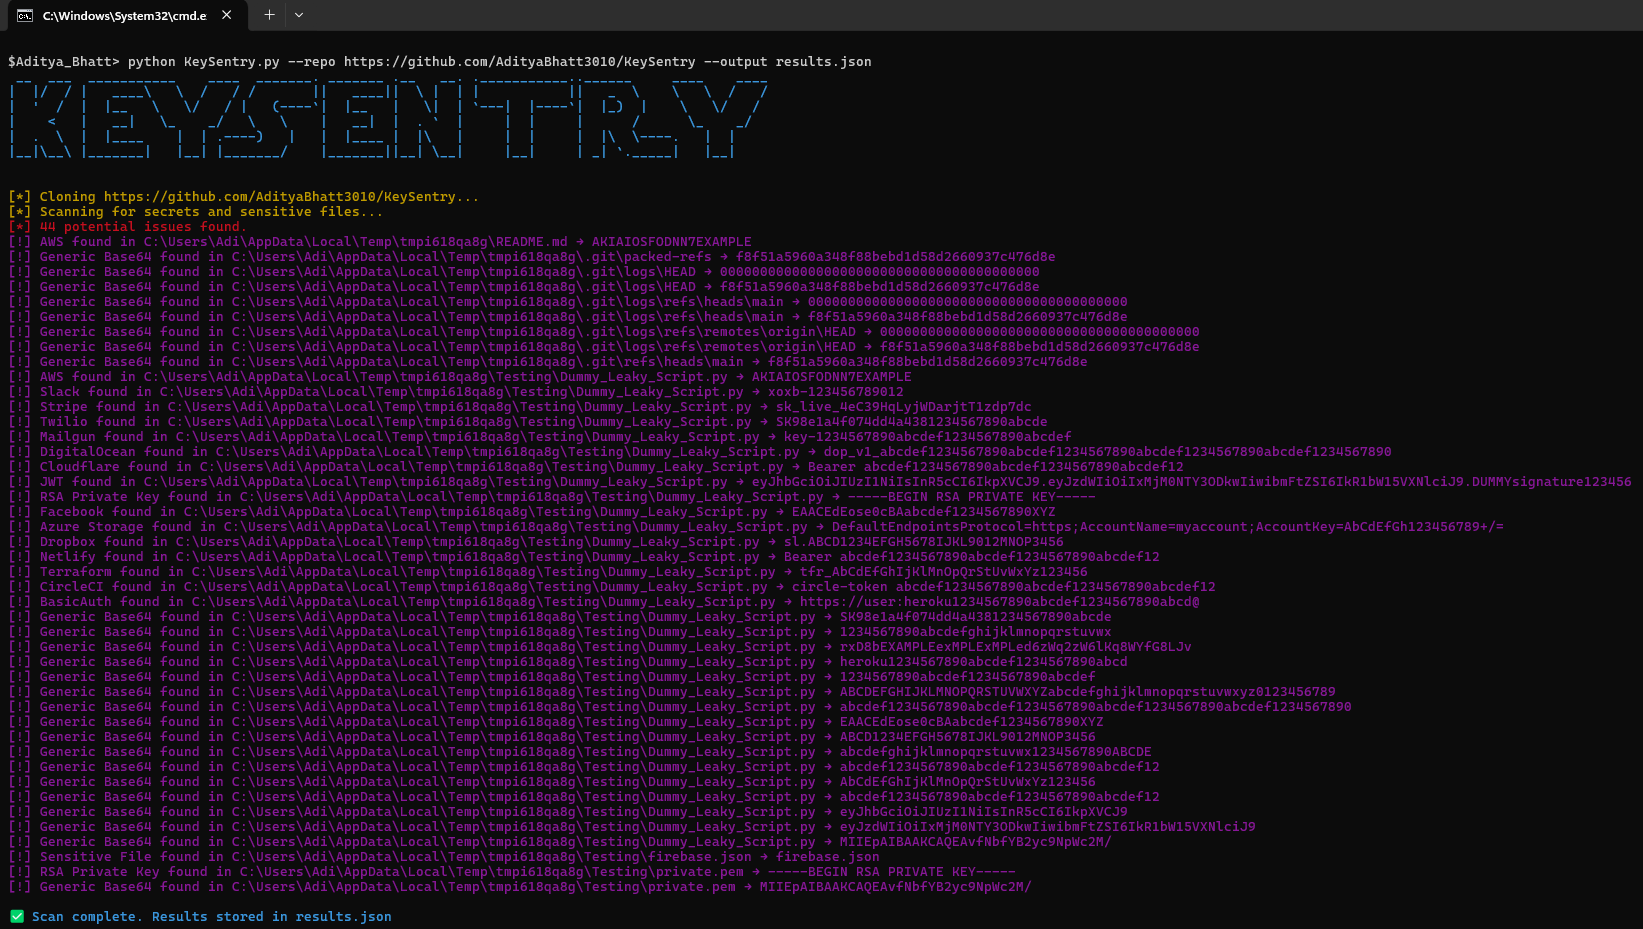
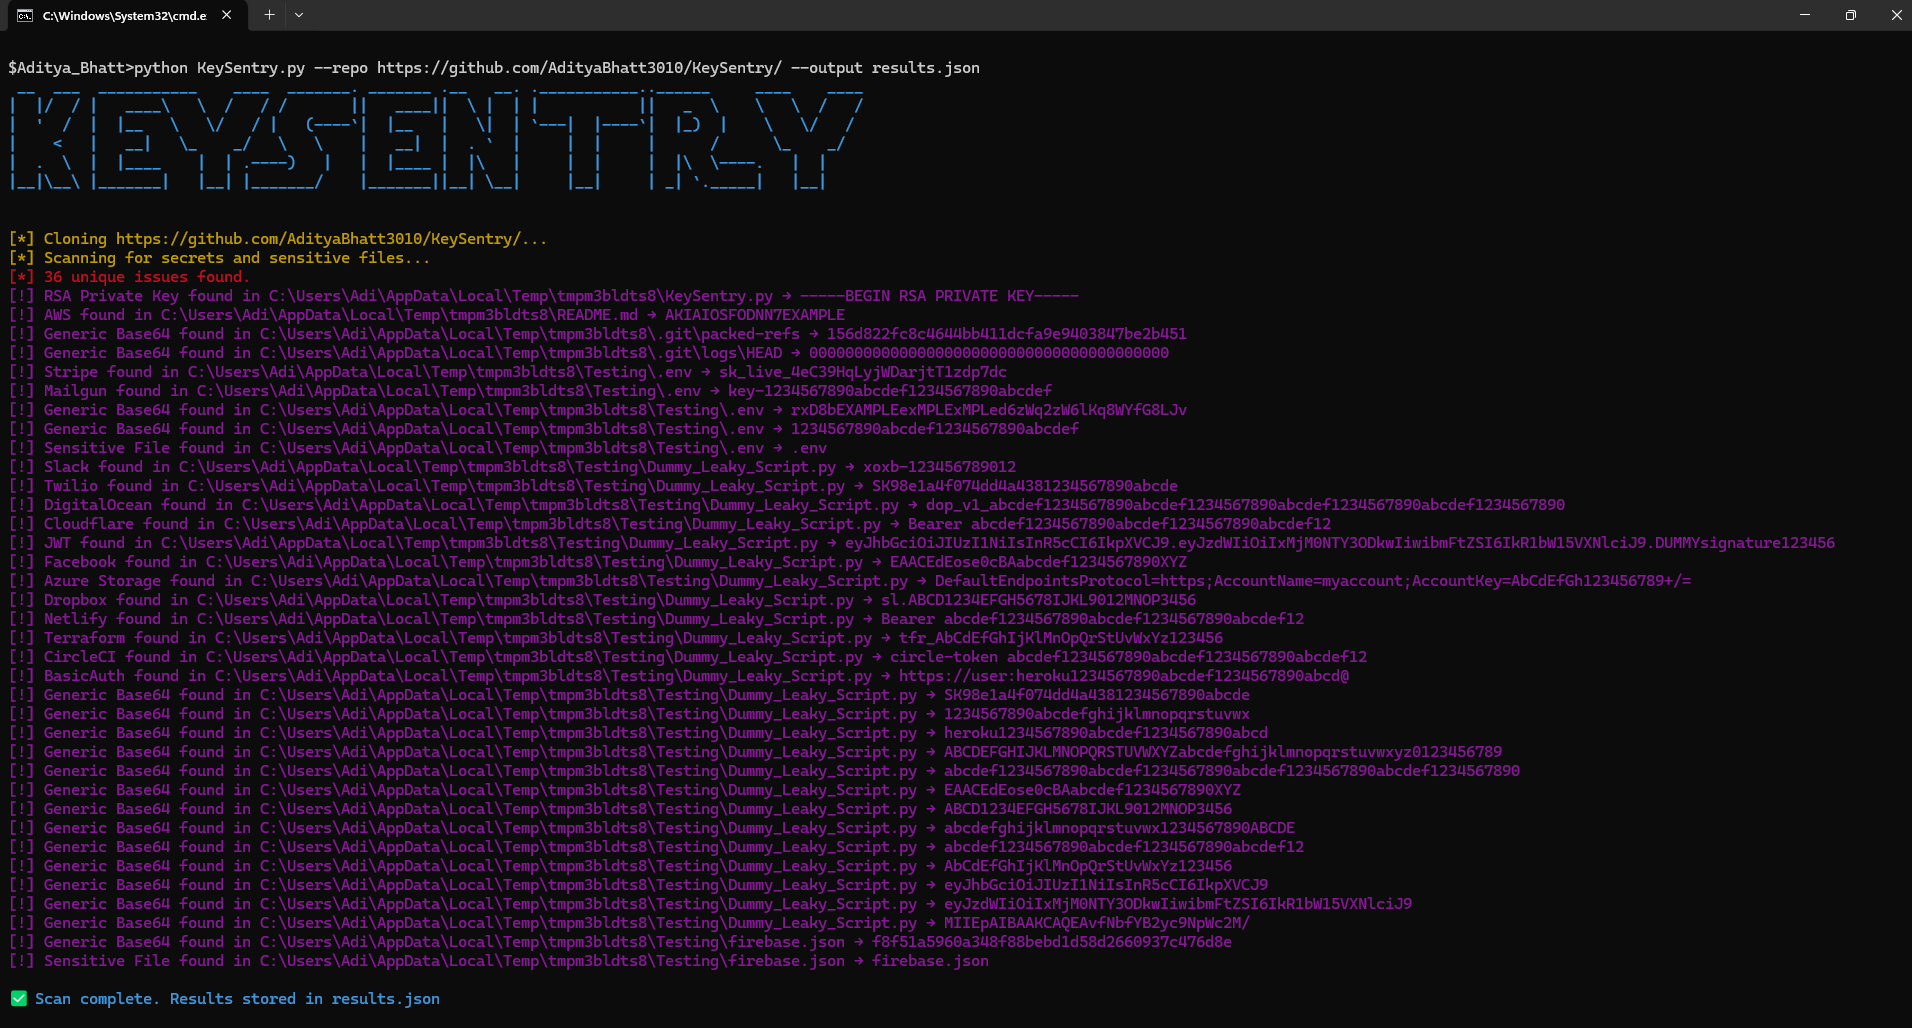
Final Upload

Changed region(s): [[0.0, 0.0312, 0.9933, 0.9989], [0.0, 0.0, 0.1552, 0.0312]]

diff --git a/KeySentry.py b/KeySentry.py
@@ -53,27 +53,34 @@ def clone_repo(repo_url):
     subprocess.run(["git", "clone", repo_url, temp_dir], stdout=subprocess.DEVNULL, stderr=subprocess.DEVNULL)
     return temp_dir
 
-def scan_file(file_path):
+def scan_file(file_path, seen_matches):
     matches = []
     try:
         with open(file_path, "r", errors="ignore") as f:
             content = f.read()
             for key_type, pattern in key_patterns.items():
                 for match in re.findall(pattern, content):
-                    matches.append({"file": file_path, "type": key_type, "match": match})
+                    key = (key_type, match)
+                    if key not in seen_matches:
+                        seen_matches.add(key)
+                        matches.append({"file": file_path, "type": key_type, "match": match})
     except:
         pass
     return matches
 
 def scan_repo(path):
     leaks = []
+    seen_matches = set()
     for root, _, files in os.walk(path):
         for file in files:
             full_path = os.path.join(root, file)
-            leaks.extend(scan_file(full_path))
+            leaks.extend(scan_file(full_path, seen_matches))
             for sensitive_file in sensitive_filenames:
                 if file.endswith(sensitive_file) or sensitive_file in full_path:
-                    leaks.append({"file": full_path, "type": "Sensitive File", "match": sensitive_file})
+                    key = ("Sensitive File", sensitive_file)
+                    if key not in seen_matches:
+                        seen_matches.add(key)
+                        leaks.append({"file": full_path, "type": "Sensitive File", "match": sensitive_file})
     return leaks
 
 def main():
@@ -95,7 +102,7 @@ def main():
     print(colored("[*] Scanning for secrets and sensitive files...", "yellow"))
     leaks = scan_repo(repo_path)
 
-    print(colored(f"[*] {len(leaks)} potential issues found.", "red" if leaks else "green"))
+    print(colored(f"[*] {len(leaks)} unique issues found.", "red" if leaks else "green"))
     with open(args.output, "w") as out:
         json.dump(leaks, out, indent=4)
 
